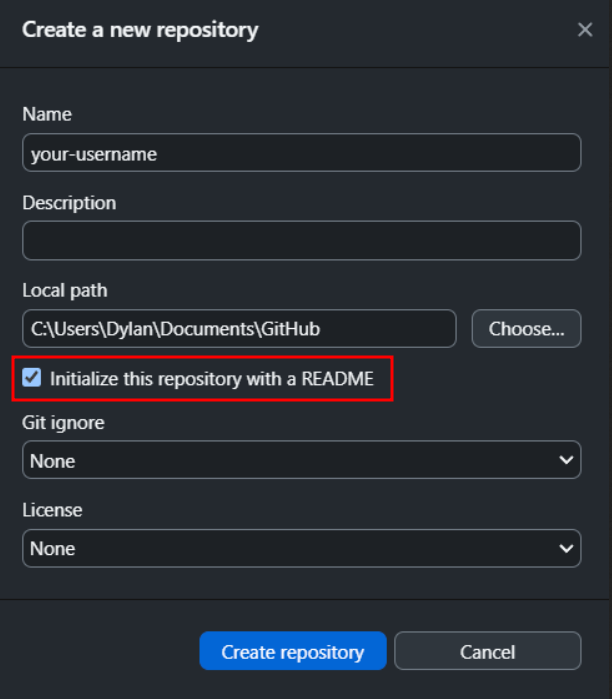
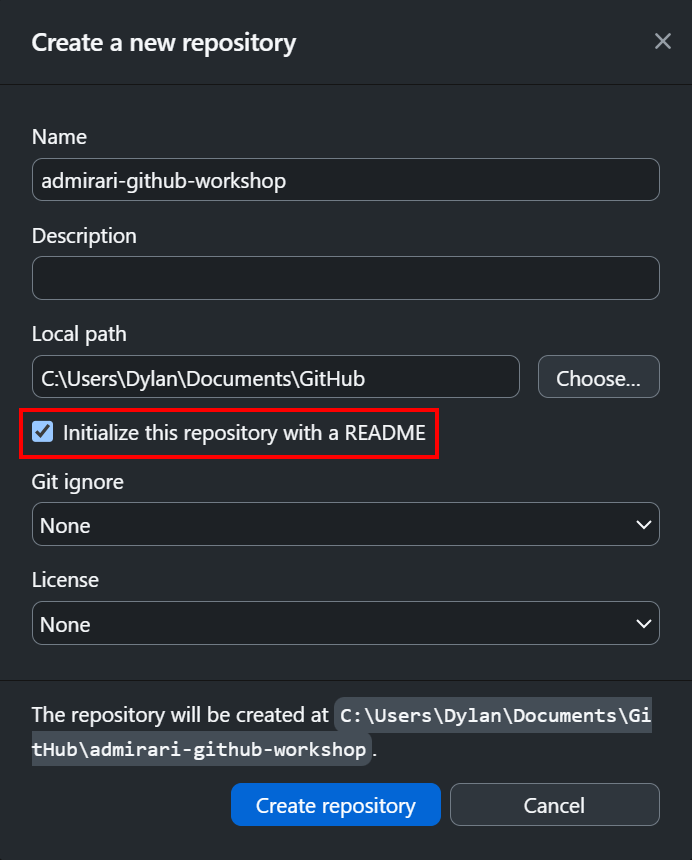
Rewrite and addition of push and pull section.

diff --git a/templates/text_venture/github_workshop.html b/templates/text_venture/github_workshop.html
@@ -15,7 +15,9 @@ content %}
            making commits, pushing changes, branching, and merging with pull requests.
         </p>
 
-        <p class="header-description">Written by: <a href="https://github.com/newproph" target="_blank">Dylan Martin</a></p>
+        <p class="header-description">
+          Written by: <a href="https://github.com/newproph" target="_blank">Dylan Martin</a>
+        </p>
       </div>
 
       <!-- Content Section One-->
@@ -78,7 +80,7 @@ content %}
         <h2 class="section-title">Getting Started</h2>
 
         <p>
-          Time to make accounts, download, and set up our enviroment. Trust me, won't be to bad.
+          Time to make accounts, download, and set up our environment. Trust me, won't be to bad.
         </p>
 
         <!-- Code Explanation -->
@@ -114,15 +116,18 @@ content %}
        <div class="content-container">
         <h2 class="section-title">Making Your First Repository</h2>
 
-        <p>The first step to starting any project is to create a repository, or repo for short. 
+        <p>
+          The first step to starting any project is to create a repository, or repo for short. 
           While there are a number of ways to accomplish this, we will be creating our repository through GitHub Desktop.
-          We're going to start by making a page to display when users visit your GitHub profile.</p>
+          For this example, feel free to use any name you would like for your repository.
+        </p>
 
         <!-- Code Explanation -->
         <div class="code-explanation">
           <h4>Going step by step...</h4>
           <ol>
-            <li>In GitHub Desktop, navigate to the File section of the menu bar, shown below. Select "New repository...",
+            <li>
+              In GitHub Desktop, navigate to the File section of the menu bar, shown below. Select "New repository...",
               or simply press Ctrl+N.
             </li>
             <br>
@@ -135,8 +140,9 @@ content %}
             />
             
             <br>
-            <li>Typically when making a repo, we can give it any name we want. For the purposes of making a page that
-              displays on your profile, create a repo with the same name as your GitHub username.
+            <li>
+              Typically when making a repo, we can give it any name we want. For this example, I'll name it 
+              "admirari-github-workshop".
             </li>
             <br>
 
@@ -177,8 +183,7 @@ content %}
             </li>
             <br>
             <li>
-              You should now see this window. Make sure to uncheck the box that says "Keep this code private"
-              before publishing your repository.
+              You should now see this window. Go ahead and click the blue "Publish Repository" button.
             </li>
             <br>
 
@@ -229,7 +234,7 @@ content %}
         <h2 class="section-title">Making Our First Changes</h2>
 
         <p>
-          In this section we will be creating a README file that will show up on our GitHub profile.
+          In this section we will be making and publishing changes to the README file in the repo we just created above.
         </p>
 
         <!-- Code Explanation -->
@@ -242,7 +247,7 @@ content %}
               It is also the IDE that will be used in this tutorial.
 
               Here is a link to <a href="https://code.visualstudio.com/" target="_blank">Visual Studio Code</a> for you to
-              download the IDE if you do not have one already.
+              download the IDE if you do not have one already. Further guides for TextVenture will be using Intellij
               <br><br>
               <strong>Note:</strong> You may have noticed in some screenshots that I am actually using an IDE called VSCodium. 
               This IDE is a freely-licensed binary distribution of Visual Studio Code. It works exactly the same, but 
@@ -290,7 +295,7 @@ content %}
             <br>
 
             <li>
-              <strong>Time to Make Introductions</strong> - Now it's time to talk about Markdown.
+              <strong>Now it's time to talk about Markdown</strong>
               <br>
               
               <ul>
@@ -317,9 +322,10 @@ content %}
                 </li>
               </ul>
 
-              Now you can create your own introductory page. This section is open ended, so feel free to take your
-              time and create something that feels right for you. As an example, here is a screenshot of 
+              As an example, I have included a screenshot of the README that displays on 
               <a href="https://github.com/newproph" target="_blank">my GitHub profile</a> as it appears in my IDE.
+              <br>
+              <strong>Do not worry about copying anything in the following example.</strong>
               <br><br>
 
               <img
@@ -334,6 +340,18 @@ content %}
             </li>
             <br>
             <li>
+              <strong>Make a Simple Change</strong> - Now we are going to make a simple change to the README that
+              appears in the README of our project. For now, let's just make a header that say's "Hello, World!".
+            </li>
+            <br>
+            <img
+                src="{{ url_for('static', filename='images/gitHub-workshop-images/readme-hello-world.png') }}"
+                class="img-fluid d-block mx-auto"
+                style="max-width: 600px"
+                alt="Markdown headers for the project README"
+              />
+            <br>
+            <li>
               <strong>Save Your Work!</strong> - Don't forget to save your changes with Ctrl+S once you're finished.
             </li>
 
@@ -345,47 +363,47 @@ content %}
 
       <!-- Content Section -->
       <div class="content-container">
-        <h2 class="section-title">It's time to make our first commit!</h2>
+        <h2 class="section-title">Making Our First Commit</h2>
 
         <p>
-          To commit this, we will go to the bottom left of the GitHub Desktop 
-          UI. I'll call this first commit in the summary and say "Added first song" in the description.
-          Let's make another one! So I'll call the new text file Song-Two.txt. I'll commit this in the same
-          manner. Let's say I wasn't happy with Song-One. Let's go to the History. Notice we can see the things we 
-          did in the past here. Let's right-click on the first commit. Select "Revert this commit" (img here). If it worked, then you should notice
-          that the first file vanished! We just went back to a save point in our project. This can be a powerful and frustrating 
-          feature. Misuse can lead to merge conflicts, something we will not go into much detail about in this tutorial.
-          Be careful using this feature.
+          Now that we have made changes to our project, lets commit these changes to our published project on GitHub.
+          Doing this is a relatively simple process through GitHub Desktop. All you need to do is fill out the
+          information in this section in the bottom right. Since the automatically generated field is 
+          descriptive enough, I'm just going to go ahead and press "Commit to main". This will push the changes
+          we made to the README to the project as it is hosted on GitHub itself.
+          <br>
+          <strong>Be careful doing this in larger projects!</strong> 
+          <br>
+          You may want to create new branch of the repository for any minor changes.
+          We will discuss branches below.
+          <br><br>
+          <img
+            src="{{ url_for('static', filename='images/gitHub-workshop-images/gd-commit.png') }}"
+            class="img-fluid d-block mx-auto"
+            style="max-width: 600px"
+            alt="GitHub desktop commit interface."
+          />
         </p>
-
-        <!-- Code Explanation -->
-        <div class="code-explanation">
-          <h4>Lets breakdown each of them</h4>
-          <ul>
-            <li><strong>VCS</strong> Explanation</li>
-            <li><strong>Git</strong> Explanation</li>
-            <li><strong>GitHub</strong> Explanation</li>
-            <li><strong>GitHub Desktop</strong> Explanation</li>
-          </ul>
-        </div>
-
-        <!-- Key Concept Box -->
-        <div class="key-concept">
-          <h4>Key Takeaway</h4>
-          <p>
-            Explanation of stuff
-          </p>
-        </div>
-
 
          <!-- Practice Section -->
       <div class="practice-section">
-        <h3>Steps before moving on</h3>
-        <p>Be diligent!</p>
-        <ul>
-          <li>Take notes</li>
-          <li>Go to gollasry and read all terms once. Use as reference</li>
-        </ul>
+        <h3>What if someone else made changes to the project?</h3>
+        <p>
+          In order to make sure you have the most recent version of code for a project, make sure to regularly
+          fetch updates from the repository. You can do this in GitHub Desktop by clicking the following button:
+        </p>
+        
+        <img
+          src="{{ url_for('static', filename='images/gitHub-workshop-images/fetch-origin.png') }}"
+          class="img-fluid d-block mx-auto"
+          style="max-width: 600px"
+          alt="Fetch origin button."
+        />
+        <br>
+        <p>
+          <strong>It is good practice to fetch the latest updates to a repository before committing changes!</strong>
+        </p>
+
       </div>
 
       </div>
@@ -393,145 +411,7 @@ content %}
 
       <!-- Content Section -->
       <div class="content-container">
-        <h2 class="section-title">From Local to Online - Time to Push!</h2>
-
-        <p>
-          When we are happy with our changes, we can push to our online repository on
-            GitHub. You have a few options to get to this. There is the large button in the center. Or you can enter
-            the "Branch" dropdown and select "Push origin" (img here). You can also use the keyboard shortcut `Ctrl + P`. This will bring all of 
-            our local changes into our online space. Let's go check that out. Navigate to your online repo
-            and check it out—your project is online! Now you can access this project from any computer. 
-            Let's go over some of this UI.
-        </p>
-
-        <!-- Code Explanation -->
-        <div class="code-explanation">
-          <h4>Lets breakdown each of them</h4>
-          <ul>
-            <li><strong>VCS</strong> Explanation</li>
-            <li><strong>Git</strong> Explanation</li>
-            <li><strong>GitHub</strong> Explanation</li>
-            <li><strong>GitHub Desktop</strong> Explanation</li>
-          </ul>
-        </div>
-
-        <!-- Key Concept Box -->
-        <div class="key-concept">
-          <h4>Key Takeaway</h4>
-          <p>
-            Explanation of stuff
-          </p>
-        </div>
-
-
-         <!-- Practice Section -->
-      <div class="practice-section">
-        <h3>Steps before moving on</h3>
-        <p>Be diligent!</p>
-        <ul>
-          <li>Take notes</li>
-          <li>Go to gollasry and read all terms once. Use as reference</li>
-        </ul>
-      </div>
-
-      </div>
-      <!-- End of Content -->
-
-      <!-- Content Section -->
-      <div class="content-container">
-        <h2 class="section-title">From Online to Local - Time to Fetch!</h2>
-
-        <p>
-          Let's make a new file here now. Select the "New file" button as shown (img here).
-            I'm going to make a TXT file called Fav-Song.txt. I'll save this to my repo, and done. Now,
-            let's go back to GitHub Desktop. We have two options now: we could fetch from the main branch, or we could pull
-            from the main branch. When fetching, know that we are making a new commit of our project from the online repo. Pulling 
-            will not create a new commit. There are several ways to do this. You can click "Fetch origin" or "Pull origin" (img here) or use the shortcut `Ctrl + Shift + P`.
-            After we did our pull, notice we have the file we added to the project via the online repo!
-        </p>
-
-        <!-- Code Explanation -->
-        <div class="code-explanation">
-          <h4>Lets breakdown each of them</h4>
-          <ul>
-            <li><strong>VCS</strong> Explanation</li>
-            <li><strong>Git</strong> Explanation</li>
-            <li><strong>GitHub</strong> Explanation</li>
-            <li><strong>GitHub Desktop</strong> Explanation</li>
-          </ul>
-        </div>
-
-        <!-- Key Concept Box -->
-        <div class="key-concept">
-          <h4>Key Takeaway</h4>
-          <p>
-            Explanation of stuff
-          </p>
-        </div>
-
-
-         <!-- Practice Section -->
-      <div class="practice-section">
-        <h3>Steps before moving on</h3>
-        <p>Be diligent!</p>
-        <ul>
-          <li>Take notes</li>
-          <li>Go to gollasry and read all terms once. Use as reference</li>
-        </ul>
-      </div>
-
-      </div>
-      <!-- End of Content -->
-
-      <!-- Content Section -->
-      <div class="content-container">
-        <h2 class="section-title">Lets try this with something a bit more fun.</h2>
-
-        <p>
-          Let's open up IntelliJ. Now select "New Project" (img here) and make a new project. 
-          We are not going to initialize it with Git or version control. Give it a name and, if needed,
-          select Java for the type of project. Make sure to create it inside of your repo. To get the path to your
-          repo, go to GitHub Desktop, right-click your repo, and find it in Explorer. Select the link in the search 
-          bar at the top of the Explorer menu and copy the link. Create your project. Notice in GitHub Desktop there 
-          are a bunch of changes. If not, there is a problem! Redo steps again. Look at it as a chance to memorize it.
-        </p>
-
-        <!-- Code Explanation -->
-        <div class="code-explanation">
-          <h4>Lets breakdown each of them</h4>
-          <ul>
-            <li><strong>VCS</strong> Explanation</li>
-            <li><strong>Git</strong> Explanation</li>
-            <li><strong>GitHub</strong> Explanation</li>
-            <li><strong>GitHub Desktop</strong> Explanation</li>
-          </ul>
-        </div>
-
-        <!-- Key Concept Box -->
-        <div class="key-concept">
-          <h4>Key Takeaway</h4>
-          <p>
-            Explanation of stuff
-          </p>
-        </div>
-
-
-         <!-- Practice Section -->
-      <div class="practice-section">
-        <h3>Steps before moving on</h3>
-        <p>Be diligent!</p>
-        <ul>
-          <li>Take notes</li>
-          <li>Go to gollasry and read all terms once. Use as reference</li>
-        </ul>
-      </div>
-
-      </div>
-      <!-- End of Content -->
-
-      <!-- Content Section -->
-      <div class="content-container">
-        <h2 class="section-title">Making sure our Java enviorment is set up</h2>
+        <h2 class="section-title">Creating a New Branch</h2>
 
         <p>
           Let's create a new class in the `src` folder; I'll call it `MyClass`. Let's use the 
@@ -575,7 +455,7 @@ content %}
 
       <!-- Content Section -->
       <div class="content-container">
-        <h2 class="section-title">The final hurdel, lets make a new branch.</h2>
+        <h2 class="section-title">Forking an Existing Repository</h2>
 
         <p>
           Now we are going to make a new branch. This will let us have isolated development
